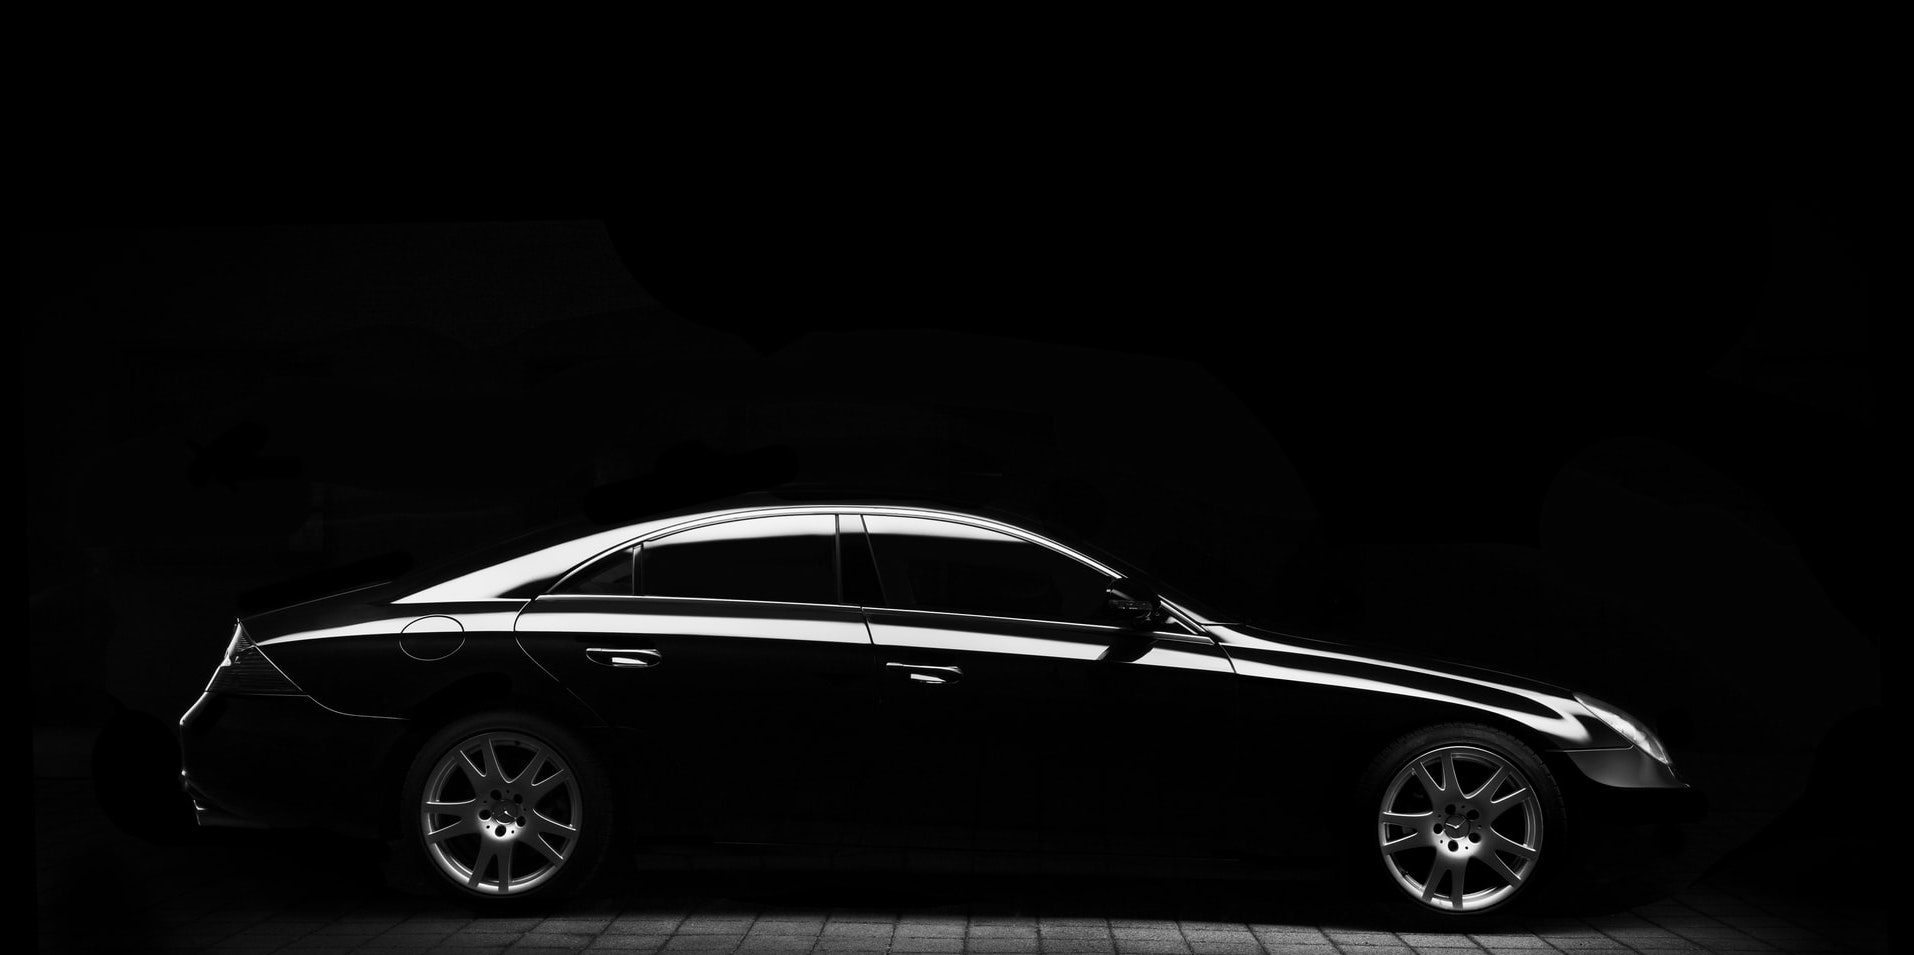
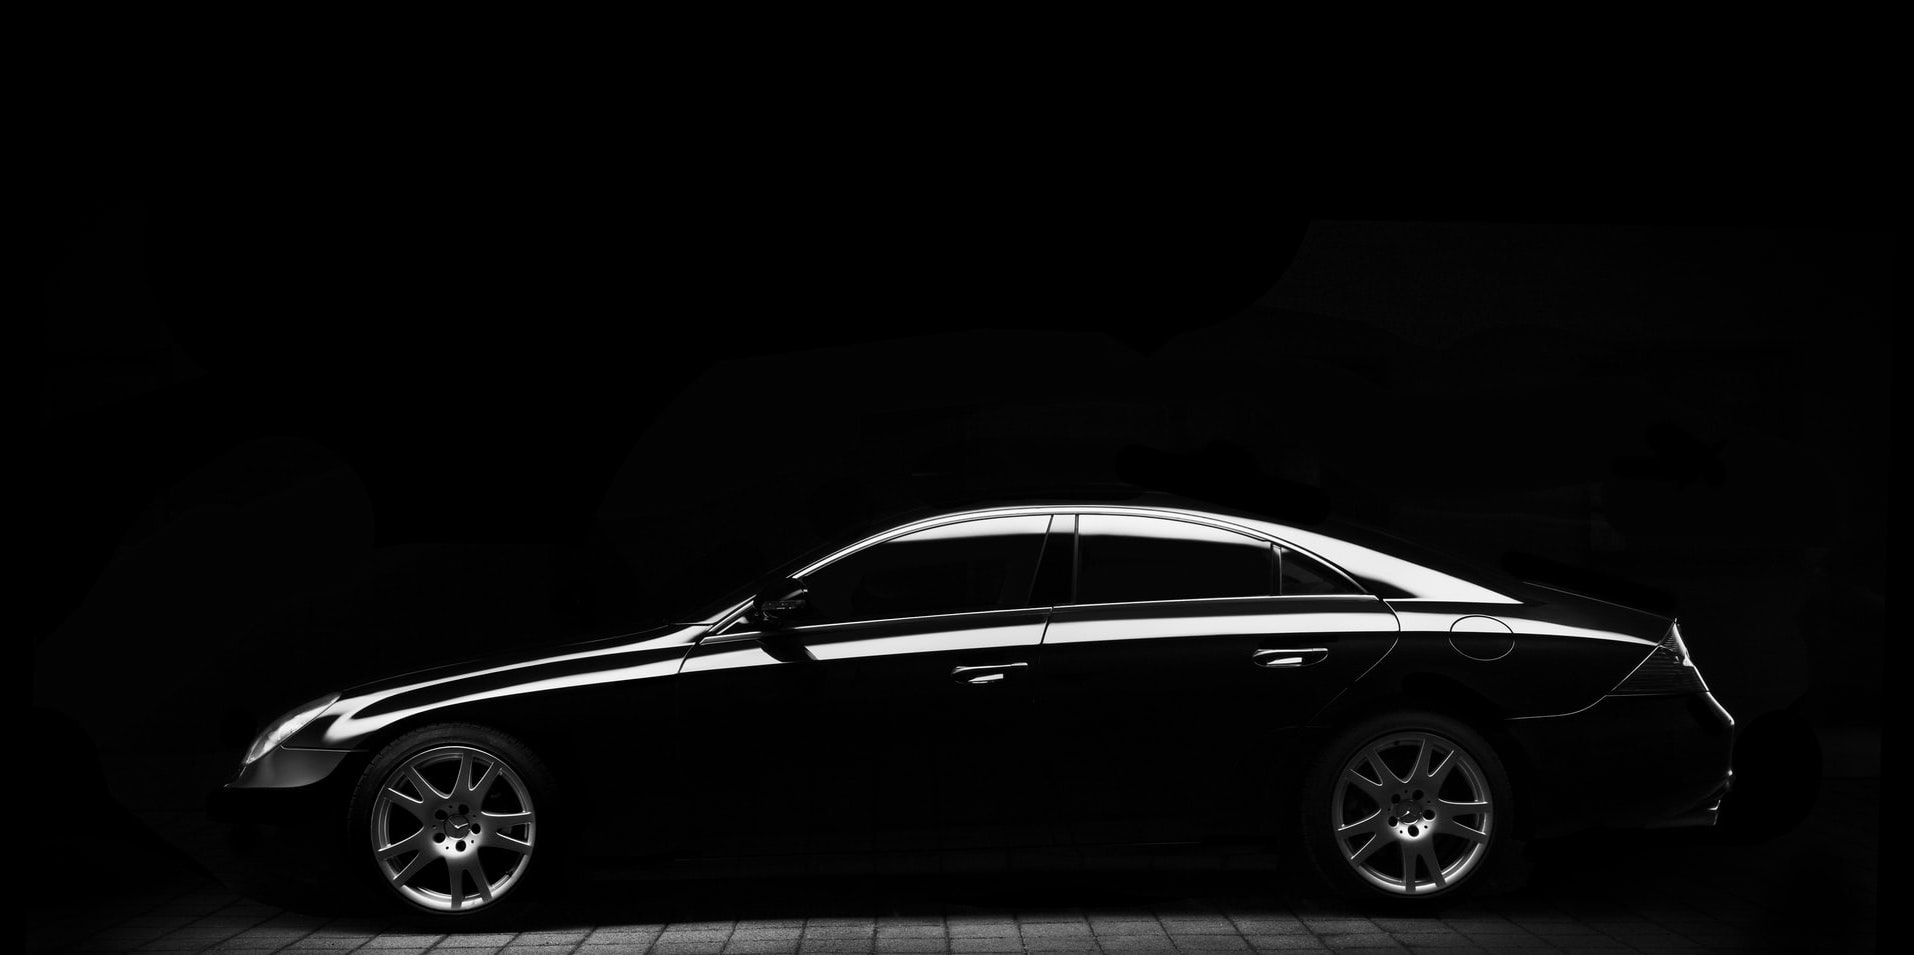
commit
few changes

Changed region(s): [[0.0925, 0.5162, 0.8939, 1.0], [0.8939, 0.7288, 0.9248, 0.7592]]

diff --git a/hero.html b/hero.html
@@ -43,7 +43,11 @@
         <hr />
         <div class="logo-sub">
           <ul class="nav-links">
-            <a href=""><li class="nav-links-item-1">Cars</li></a>
+            <a href=""><li class="nav-links-item-1">
+              <svg width="24" height="24" viewBox="0 0 24 24" fill="none" xmlns="http://www.w3.org/2000/svg">
+                <path d="M22 13.6302C22 14.4002 21.95 15.6602 21.87 17.4302C21.87 18.0502 21.84 18.2802 21.84 18.3802V19.6102C21.84 19.8202 21.68 20.0002 21.44 20.0002H19.68C19.47 20.0002 19.26 19.8202 19.26 19.6102V18.4102H16.94L15.97 18.7902H8.07L7.09 18.4102H4.7V19.6102C4.7 19.8202 4.55 20.0002 4.34 20.0002H2.54C2.34 20.0002 2.12 19.8202 2.12 19.6102V18.0502C2.04 17.1502 1.99 15.7402 1.99 13.8302V13.3002C1.99 13.0102 2.02 12.8602 2.04 12.8002C2.1 12.6002 2.28 12.2702 2.62 11.8002L3.1 11.1902L3.62 10.3702C3.18 10.3702 2.89 10.3202 2.89 10.1902C2.9 9.24023 3.26 9.00023 4.5 9.00023C5.00312 8.17724 5.57874 7.40082 6.22 6.68023C6.56 6.32023 6.85 6.14023 7.09 6.14023C7.09 6.12023 9.06 5.99023 11.91 5.99023C12.57 5.99023 13.78 6.02023 15.51 6.07023L16.86 6.14023H16.94C17.44 6.14023 18.28 7.09023 19.52 9.00023C20.68 9.00023 21.13 9.20023 21.13 10.1302C21.13 10.3302 20.73 10.3102 20.39 10.3602L20.92 11.1802L21.39 11.8002C21.74 12.2602 21.92 12.6002 21.97 12.8002C22 12.8702 22 13.1302 22 13.6202V13.6302ZM6.14 13.0302L4.66 12.1402C4.61 12.1402 4.58 12.1402 4.56 12.1102C4.46 12.0902 4.37 12.0602 4.32 12.0602C3.66 12.0602 3.5 12.4002 3.5 12.9902C3.5 14.0402 3.66 14.0902 4.03 14.1702L6.48 14.6102L6.14 13.0402V13.0302ZM20.55 13.4302L20.52 12.9302C20.5 12.8802 20.5 12.8102 20.5 12.7002C20.45 12.6002 20.18 12.0602 19.7 12.0602C19.65 12.0602 19.58 12.0902 19.47 12.1102C19.44 12.1402 19.42 12.1402 19.37 12.1402L17.89 13.0402L17.55 14.6102L20.02 14.1702L20.23 14.0902C20.2924 14.0655 20.3488 14.0278 20.3953 13.9795C20.4419 13.9312 20.4776 13.8735 20.5 13.8102C20.52 13.6802 20.55 13.5502 20.55 13.4202V13.4302ZM16.52 12.9102L16.39 12.8302L11.99 12.5302L7.61 12.8302L7.51 12.9102C7.4279 12.992 7.37217 13.0965 7.35 13.2102L7.4 13.7302C7.43 13.8602 7.45 14.0102 7.53 14.1702L7.72 14.6302C7.8 14.8302 7.88 14.9702 7.98 15.0402C8.11 15.1402 8.78 15.2702 9.93 15.4502C11.09 15.6102 11.78 15.6802 11.99 15.6802C12.19 15.6802 12.89 15.6102 14.04 15.4502C14.7138 15.3978 15.3787 15.2635 16.02 15.0502C16.15 14.9702 16.22 14.8402 16.31 14.6502L16.49 14.1702C16.57 14.0202 16.59 13.8702 16.62 13.7302L16.68 13.2702V13.2202C16.6597 13.1029 16.6039 12.9947 16.52 12.9102V12.9102ZM12.02 15.0102C11.8962 15.0142 11.7729 14.9935 11.6572 14.9492C11.5415 14.9048 11.4359 14.8379 11.3465 14.7522C11.2571 14.6665 11.1857 14.5638 11.1365 14.4501C11.0873 14.3364 11.0613 14.2141 11.06 14.0902C11.06 13.5802 11.49 13.1702 12.01 13.1702C12.54 13.1702 12.96 13.5702 12.96 14.0902C12.9623 14.2128 12.9396 14.3346 12.8932 14.4481C12.8467 14.5616 12.7776 14.6644 12.69 14.7502C12.5079 14.9265 12.2634 15.0235 12.01 15.0202L12.02 15.0102Z" fill="#999999"/>
+                </svg>
+                Cars</li></a>
             <a href=""><li class="nav-links-item-1">Search & Buy</li></a>
             <a href=""><li class="nav-links-item-1">Technology & Innovation</li></a>
             <a href=""><li class="nav-links-item-1">Technology & Innovation</li></a>
@@ -90,7 +94,7 @@
         <div
           class="carousel-item"
           data-interval="1000"
-          style="background-image: url('/css/img/7.jpg');"
+          style="background-image: url('/css/img/10.jpg');"
         >
           <div class="container-title-sub">
             <h1>
@@ -149,8 +153,6 @@
                 <path fill-rule="evenodd" clip-rule="evenodd" d="M38.0774 2.7403V6.00723H41.2403C41.9819 6.00723 42.546 5.86425 42.9318 5.5783C43.3172 5.29276 43.5105 4.88911 43.5105 4.36817C43.5105 3.87003 43.3217 3.47342 42.9446 3.18001C42.5674 2.88659 42.0265 2.7403 41.3231 2.7403H38.0774ZM37.3909 2.21853H41.3486C42.2853 2.21853 43.0033 2.41 43.501 2.7921C43.9992 3.17462 44.248 3.69597 44.248 4.35615C44.248 5.02462 43.9969 5.55343 43.4946 5.94341C42.9923 6.3338 42.2558 6.52858 41.2849 6.52858H38.0774V10.3111H37.3909V2.21853V2.21853ZM81.9065 2.21895V2.73988H75.7022V5.97781H81.8037V6.50537H75.7022V9.79013H82.0034V10.3111H75.0498V2.21895H81.9065ZM65.3537 3.56252L62.3769 10.3923H62.1912L58.6162 2.21853H59.3213L62.2636 8.93226L65.2449 2.21853H65.4588L68.4256 8.93226L71.3746 2.21853H72.0794L68.4975 10.3923H68.3309L65.3537 3.56252V3.56252ZM86.0339 2.73988H89.6277C90.296 2.73988 90.8096 2.88659 91.1681 3.18001C91.5267 3.47342 91.7055 3.87003 91.7055 4.36817C91.7055 4.88911 91.5226 5.29276 91.1559 5.5783C90.7896 5.86425 90.2537 6.00682 89.5489 6.00682H86.0339V2.73988ZM90.791 7.51326C90.4816 7.05698 90.215 6.72543 89.9889 6.51366C90.7164 6.46434 91.2851 6.27537 91.6904 5.94341C92.1677 5.55343 92.4065 5.02421 92.4065 4.35615C92.4065 3.69555 92.17 3.1742 91.6968 2.7921C91.2232 2.40958 90.5417 2.21853 89.6522 2.21853H85.3815V10.3111H86.0339V6.52858H88.9147C89.0667 6.57251 89.1991 6.63177 89.3101 6.70513C89.5835 6.88913 89.9661 7.35163 90.4575 8.09346L91.9275 10.3111H92.7L90.791 7.51326V7.51326ZM51.8559 9.83613C52.9619 9.83613 53.895 9.49174 54.6566 8.80213C55.4173 8.11294 55.7981 7.26833 55.7981 6.26832C55.7981 5.26375 55.4173 4.41707 54.6566 3.72746C53.895 3.03827 52.9619 2.69388 51.8559 2.69388C50.7444 2.69388 49.804 3.03827 49.0342 3.72746C48.2653 4.41707 47.8804 5.26375 47.8804 6.26832C47.8804 7.26833 48.2653 8.11294 49.0342 8.80213C49.804 9.49174 50.7444 9.83613 51.8559 9.83613ZM51.83 2.11451C53.1443 2.11451 54.2581 2.51734 55.1716 3.32215C56.0852 4.1278 56.542 5.10958 56.542 6.26832C56.542 7.4225 56.0852 8.40262 55.1716 9.20786C54.2581 10.0127 53.1443 10.4151 51.83 10.4151C50.5197 10.4151 49.4105 10.0127 48.5006 9.20786C47.5911 8.40262 47.1361 7.4225 47.1361 6.26832C47.1361 5.10958 47.5911 4.1278 48.5006 3.32215C49.4105 2.51734 50.5197 2.11451 51.83 2.11451Z" fill="black"/>
                 <path fill-rule="evenodd" clip-rule="evenodd" d="M2.00592 6.26542C2.00592 5.14771 2.53777 4.18126 3.39082 3.40421C4.15834 2.70466 5.64834 2.21895 8.0155 2.21895H14.7589V0.391323H7.76072C5.29938 0.391323 3.14105 1.05979 1.97407 2.1228C0.671522 3.31014 0 4.51736 0 6.26542C0 8.01306 0.671522 9.22112 1.97407 10.408C3.14105 11.4706 5.29938 12.1391 7.76072 12.1391H14.9022V10.3115H8.0155C5.64834 10.3115 4.15834 9.82577 3.39082 9.12663C2.53777 8.34958 2.00592 7.38313 2.00592 6.26542V6.26542ZM3.86899 7.17923H13.899V5.35161H3.86899V7.17923ZM28.6079 12.0798L30.0265 10.7877L24.3522 5.61891L22.9341 6.9111L28.6079 12.0798ZM26.329 12.0342C23.8254 13.0003 20.8208 12.5548 18.7799 10.6952C16.0938 8.24887 16.0938 4.28197 18.7799 1.83477C21.466 -0.611591 25.8204 -0.611591 28.5065 1.83477C30.5479 3.69431 31.0374 6.43078 29.9764 8.71179L28.3895 7.26626C28.5764 6.5325 28.555 5.76747 28.3274 5.04332C28.0997 4.31918 27.6733 3.6598 27.0884 3.12737C25.1853 1.39424 22.1011 1.39424 20.1984 3.12737C18.2958 4.86051 18.2958 7.66991 20.1984 9.40305C20.7828 9.93602 21.5067 10.3246 22.3017 10.532C23.0967 10.7395 23.9366 10.759 24.7421 10.5887L26.329 12.0342V12.0342Z" fill="#00A3DA"/>
                 </svg>
-                
-                
               </li >
             <li class="models-links-item">
               <svg width="79" height="8" viewBox="0 0 79 8" fill="none" xmlns="http://www.w3.org/2000/svg">
@@ -199,9 +201,6 @@
                   </clipPath>
                   </defs>
                   </svg>
-                  
-                  
-                  
                 Saloons
               </button>
             </li>
@@ -253,7 +252,7 @@
                   </svg>
                   
                   
-                Coupes
+                  Coupé
               </button>
             </li>
             <li class="car-list-icon-one">
@@ -287,9 +286,102 @@
             </li>
           </ul>
         </div>
-        <div class="models-content-down-right"></div>
+        <div class="models-content-down-right">
+          <div class="car-models-row">
+            <div class="car-models-row-title">
+              Hatchbacks
+            </div>
+            <hr class="hatchbacks">
+            <div class="car-models-row-content">
+            </div>
+
+          </div>
+          <div class="car-models-row">
+            <div class="car-models-row-title">
+              Saloons
+            </div>
+            <hr class="hatchbacks">
+            <div class="car-models-row-content">
+            </div>
+
+          </div>
+          <div class="car-models-row">
+            <div class="car-models-row-title">
+              Estates
+            </div>
+            <hr class="hatchbacks">
+            <div class="car-models-row-content">
+            </div>
+
+          </div>
+          <div class="car-models-row">
+            <div class="car-models-row-title">
+              SUV's
+            </div>
+            <hr class="hatchbacks">
+            <div class="car-models-row-content">
+            </div>
+
+          </div>
+          <div class="car-models-row">
+            <div class="car-models-row-title">
+              Coupé
+            </div>
+            <hr class="hatchbacks">
+            <div class="car-models-row-content">
+            </div>
+
+          </div>
+          <div class="car-models-row">
+            <div class="car-models-row-title">
+              Cabriolets
+            </div>
+            <hr class="hatchbacks">
+            <div class="car-models-row-content">
+            </div>
+
+          </div>
+          <div class="car-models-row">
+            <div class="car-models-row-title">
+              Roadsters
+            </div>
+            <hr class="hatchbacks">
+            <div class="car-models-row-content">
+            </div>
+
+          </div>
+          <div class="car-models-row">
+            <div class="car-models-row-title">
+              MPV's
+            </div>
+            <hr class="hatchbacks">
+            <div class="car-models-row-content">
+            </div>
+
+          </div>
+
+          <!-- <div class="car-models-row"></div>
+          <div class="car-models-row"></div>
+          <div class="car-models-row"></div>
+          <div class="car-models-row"></div>
+          <div class="car-models-row"></div>
+          <div class="car-models-row"></div>
+          <div class="car-models-row"></div>
+          <div class="car-models-row"></div> -->
+
+
+
+        </div>
       </div>
     </section>
+
+
+
+
+
+
+
+
     <div class="image-container">
       <a class="dotm" href="#">
         <img
@@ -341,7 +433,7 @@
           nam animi saepe dignissimos repudiandae? Ipsum architecto explicabo,
         </p>
         <hr />
-        <p id="copy">©Civilized - All Rights Reserved 2020</p>
+        <p id="copy">©Mercedes-Benz - All Rights Reserved 2020</p>
       </ul>
     </footer>
 

diff --git a/css/hero.css b/css/hero.css
@@ -363,7 +363,6 @@ h2 {
   width: 100vw;
   max-width: 1695px;
   margin: 0 auto;
-  height: 100vh;
   -webkit-box-orient: vertical;
   -webkit-box-direction: normal;
       -ms-flex-direction: column;
@@ -432,14 +431,22 @@ h2 {
     -webkit-box-flex: 0;
         -ms-flex: 0 0 10%;
             flex: 0 0 10%;
+    width: 100%;
+    border: 2px solid green;
   }
 }
 
 .models-content-down-right {
-  background-color: blue;
+  background-color: rgba(235, 206, 206, 0.084);
   -webkit-box-flex: 0;
       -ms-flex: 0 0 80%;
           flex: 0 0 80%;
+  width: 100%;
+  display: -webkit-box;
+  display: -ms-flexbox;
+  display: flex;
+  -ms-flex-wrap: wrap;
+      flex-wrap: wrap;
 }
 
 @media (max-width: 1280px) {
@@ -459,6 +466,49 @@ h2 {
   }
 }
 
+.hatchbacks {
+  width: 100%;
+  margin: 1rem auto;
+  border: 0;
+  height: 0;
+  border-top: 0.1px solid rgba(0, 0, 0, 0.1);
+  border-bottom: 0.1px solid rgba(255, 255, 255, 0.18);
+}
+
+.car-models-row {
+  padding: 4rem 2rem;
+  width: 100%;
+  display: -webkit-box;
+  display: -ms-flexbox;
+  display: flex;
+  -webkit-box-orient: vertical;
+  -webkit-box-direction: normal;
+      -ms-flex-direction: column;
+          flex-direction: column;
+  border: 1px solid red;
+}
+
+.car-models-row-title {
+  -webkit-box-flex: 0;
+      -ms-flex: 0 0 20%;
+          flex: 0 0 20%;
+  font-size: 1.6rem;
+  font-weight: 400;
+  letter-spacing: 1px;
+  font-family: Arial, Helvetica, sans-serif;
+  text-transform: initial;
+  color: #b5b2b2;
+}
+
+.car-models-row-content {
+  -webkit-box-flex: 0;
+      -ms-flex: 0 0 80%;
+          flex: 0 0 80%;
+  width: 100%;
+  height: 10rem;
+  background-color: #22ff00;
+}
+
 .car-list-icons {
   width: 100%;
   height: 100%;
@@ -475,6 +525,27 @@ h2 {
   -webkit-box-align: start;
       -ms-flex-align: start;
           align-items: flex-start;
+}
+
+@media (max-width: 1280px) {
+  .car-list-icons {
+    -webkit-box-orient: horizontal;
+    -webkit-box-direction: normal;
+        -ms-flex-direction: row;
+            flex-direction: row;
+    -webkit-box-pack: justify;
+        -ms-flex-pack: justify;
+            justify-content: space-between;
+    -webkit-box-align: center;
+        -ms-flex-align: center;
+            align-items: center;
+  }
+}
+
+@media (max-width: 1280px) {
+  .car-list-icons svg {
+    display: none;
+  }
 }
 
 .car-list-icon-one {

diff --git a/css/hero.scss b/css/hero.scss
@@ -358,11 +358,9 @@ h2 {
 .models {
   padding: 10rem 4rem;
   background-color: #f8f8f8;
-
   width: 100vw;
   max-width: 1695px;
   margin: 0 auto;
-  height: 100vh;
   flex-direction: column;
   display: flex;
 
@@ -396,11 +394,18 @@ h2 {
 
       @media (max-width: 1280px) {
         flex: 0 0 10%;
+        width: 100%;
+  
+        border:2px solid green;
       }
     }
     &-right {
-      background-color: blue;
+      background-color: rgba(235, 206, 206, 0.084);
       flex: 0 0 80%;
+      width: 100%;
+
+      display: flex;
+      flex-wrap: wrap;
       @media (max-width: 1280px) {
         flex: 0 0 90%;
       }
@@ -411,6 +416,40 @@ h2 {
     }
   }
 }
+.hatchbacks {
+  width: 100%;
+  margin: 1rem auto;
+  border: 0;
+  height: 0;
+  border-top: 0.1px solid rgba(0, 0, 0, 0.1);
+  border-bottom: 0.1px solid rgba(255, 255, 255, 0.18);
+}
+
+.car-models-row {
+  padding: 4rem 2rem;
+  width: 100%;
+  display: flex;
+  flex-direction:column;
+
+
+  border: 1px solid red;
+}
+.car-models-row-title {
+  flex: 0 0 20%;
+  font-size: 1.6rem;
+  font-weight: 400;
+  letter-spacing: 1px;
+  font-family: Arial, Helvetica, sans-serif;
+  text-transform: initial;
+  color: #b5b2b2;
+}
+
+.car-models-row-content {
+  flex: 0 0 80%;
+  width: 100%;
+  height: 10rem;
+  background-color: rgb(34, 255, 0);
+}
 
 .car-list-icons {
   width: 100%;
@@ -419,6 +458,17 @@ h2 {
   flex-direction: column;
   justify-content: flex-start;
   align-items: flex-start;
+  @media (max-width: 1280px) {
+    flex-direction: row;
+    justify-content: space-between;
+    align-items: center;
+  }
+}
+
+.car-list-icons svg{
+  @media (max-width: 1280px) {
+    display: none;
+  }
 }
 
 .car-list-icon-one {

diff --git a/css/style.css b/css/style.css
@@ -1,4 +1,3 @@
-@charset "UTF-8";
 @import url("https://fonts.googleapis.com/css2?family=Playfair+Display:wght@400;500;600;669&display=swap");
 :root {
   --color-primary: #f58a07;
@@ -174,7 +173,7 @@ ul .nav-links-item-1a {
   color: #fff;
   font-weight: 400;
   font-family: Arial, Helvetica, sans-serif;
-  color: #999999§;
+  color: #999999;
   font-size: 1.2rem;
   letter-spacing: 1px;
   text-transform: uppercase;

diff --git a/css/style.scss b/css/style.scss
@@ -136,7 +136,7 @@ ul .nav-links-item-1a {
   color: #fff;
   font-weight: 400;
   font-family: Arial, Helvetica, sans-serif;
-  color: #999999§;
+  color: #999999;
   font-size: 1.2rem;
   letter-spacing: 1px;
   text-transform: uppercase;
